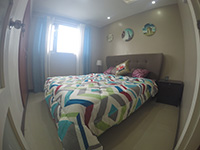
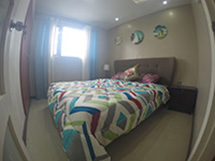
adjust size

diff --git a/css/landing-page.css b/css/landing-page.css
@@ -173,6 +173,6 @@ p.copyright {
 .img-gallery {
   border: 5px solid white;
   box-shadow: 0 0 5px #959595;
-  width: 200px;
-  height: 120px;
+  width: 225px;
+  height: 150px;
 }
